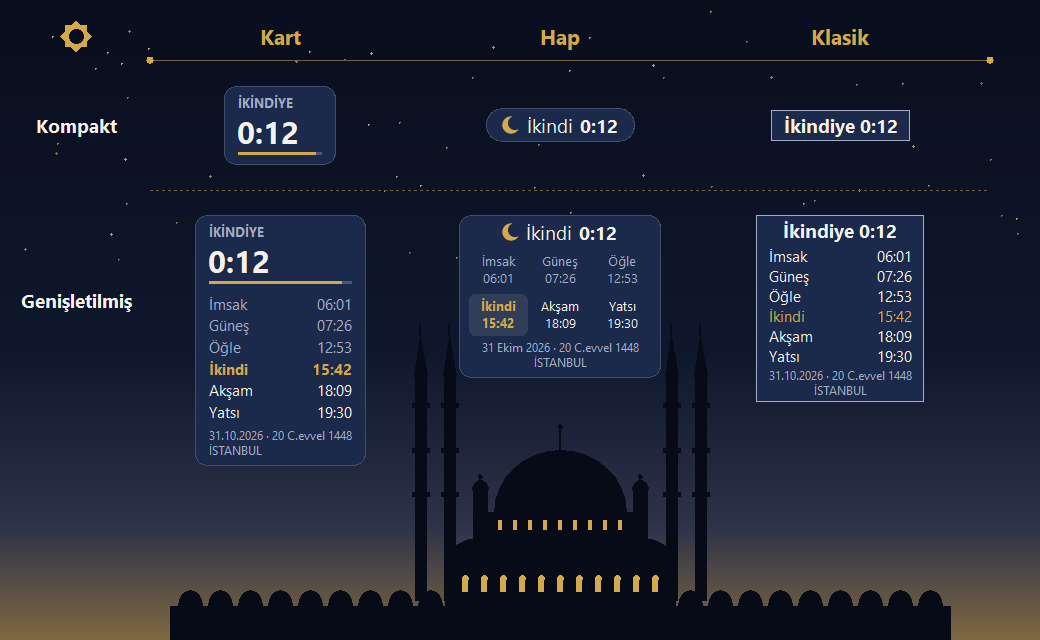
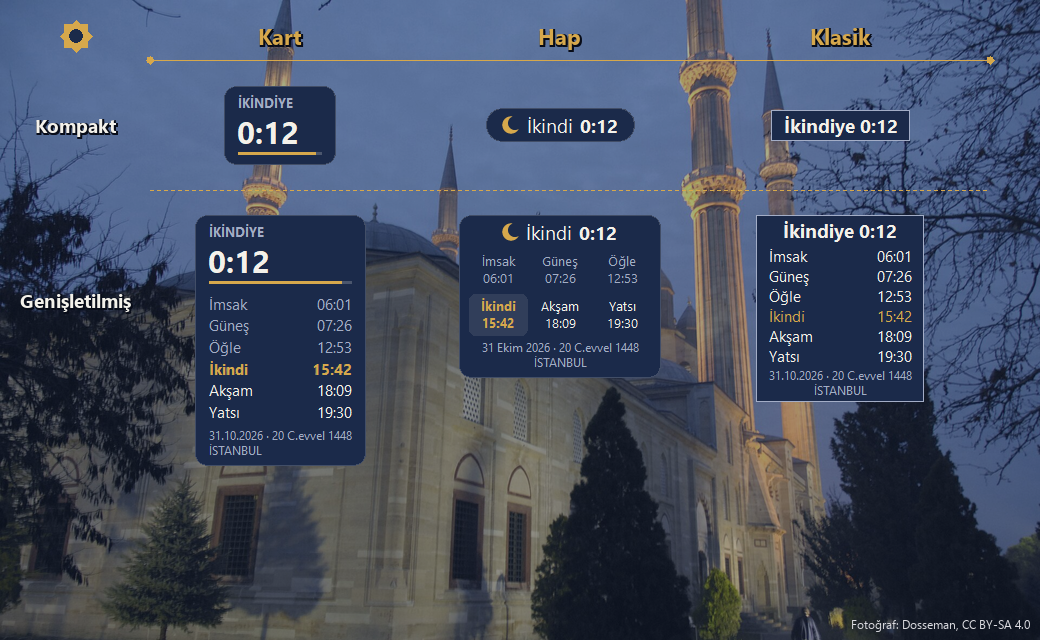
README: gerçek Selimiye fotoğraflı görsel (Dosseman, CC BY-SA 4.0)

diff --git a/README.md b/README.md
@@ -86,6 +86,8 @@ Bu uygulama gönüllü olarak geliştirilmiş, resmi olmayan bir projedir ve Diy
 
 Hadis metinleri uygulamanın içinde yer almaz. Uygulamada yalnızca seçilen hadislerin kaynak bilgisi (kitap ve numara) bulunur. Türkçe ve İngilizce metinler ilk kullanımda açık [hadith-api](https://github.com/fawazahmed0/hadith-api) veri setinden indirilir ve bilgisayarda saklanır (yaklaşık 75 KB). Çevirilerin hakları ilgili çevirmenlere aittir.
 
+Ekran görüntüsünün arka planındaki Selimiye Camii fotoğrafı [Dosseman](https://commons.wikimedia.org/wiki/File:Edirne_Selimiye_Mosque_Exterior_NW_corner_in_2006_2406.jpg) tarafından çekilmiştir ve [CC BY-SA 4.0](https://creativecommons.org/licenses/by-sa/4.0/) lisanslıdır. Fotoğrafın üzerine lacivert bir katman ve uygulama görüntüleri eklendi. `docs/ekran.png` de aynı lisansla paylaşılır.
+
 ---
 
 ## English
